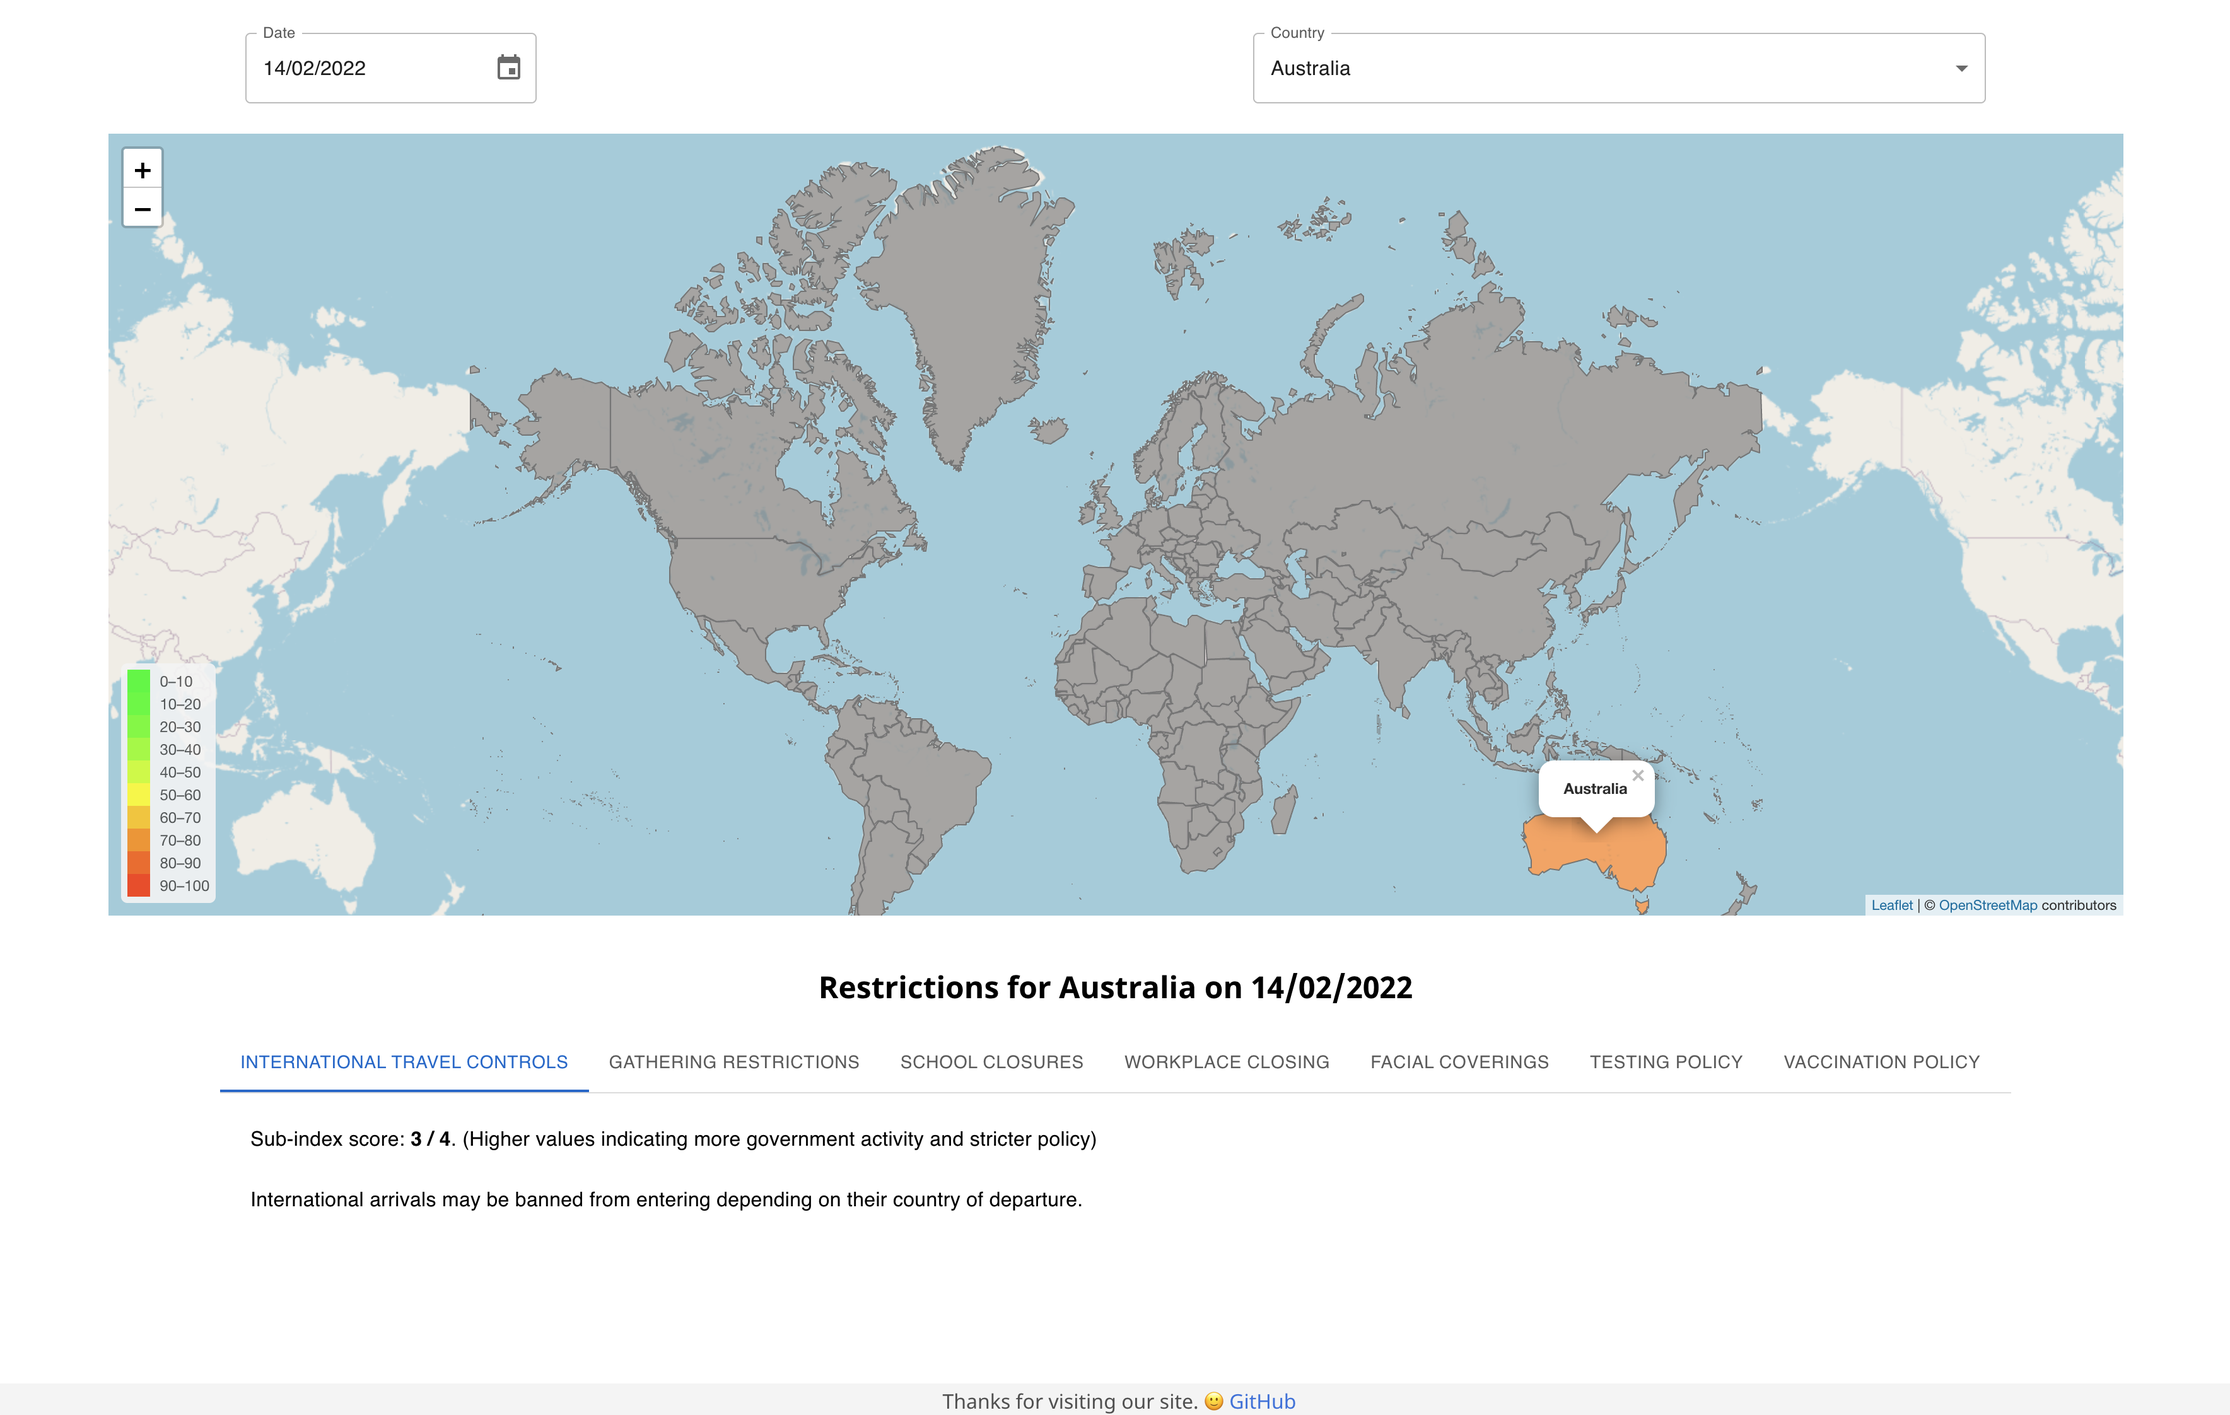
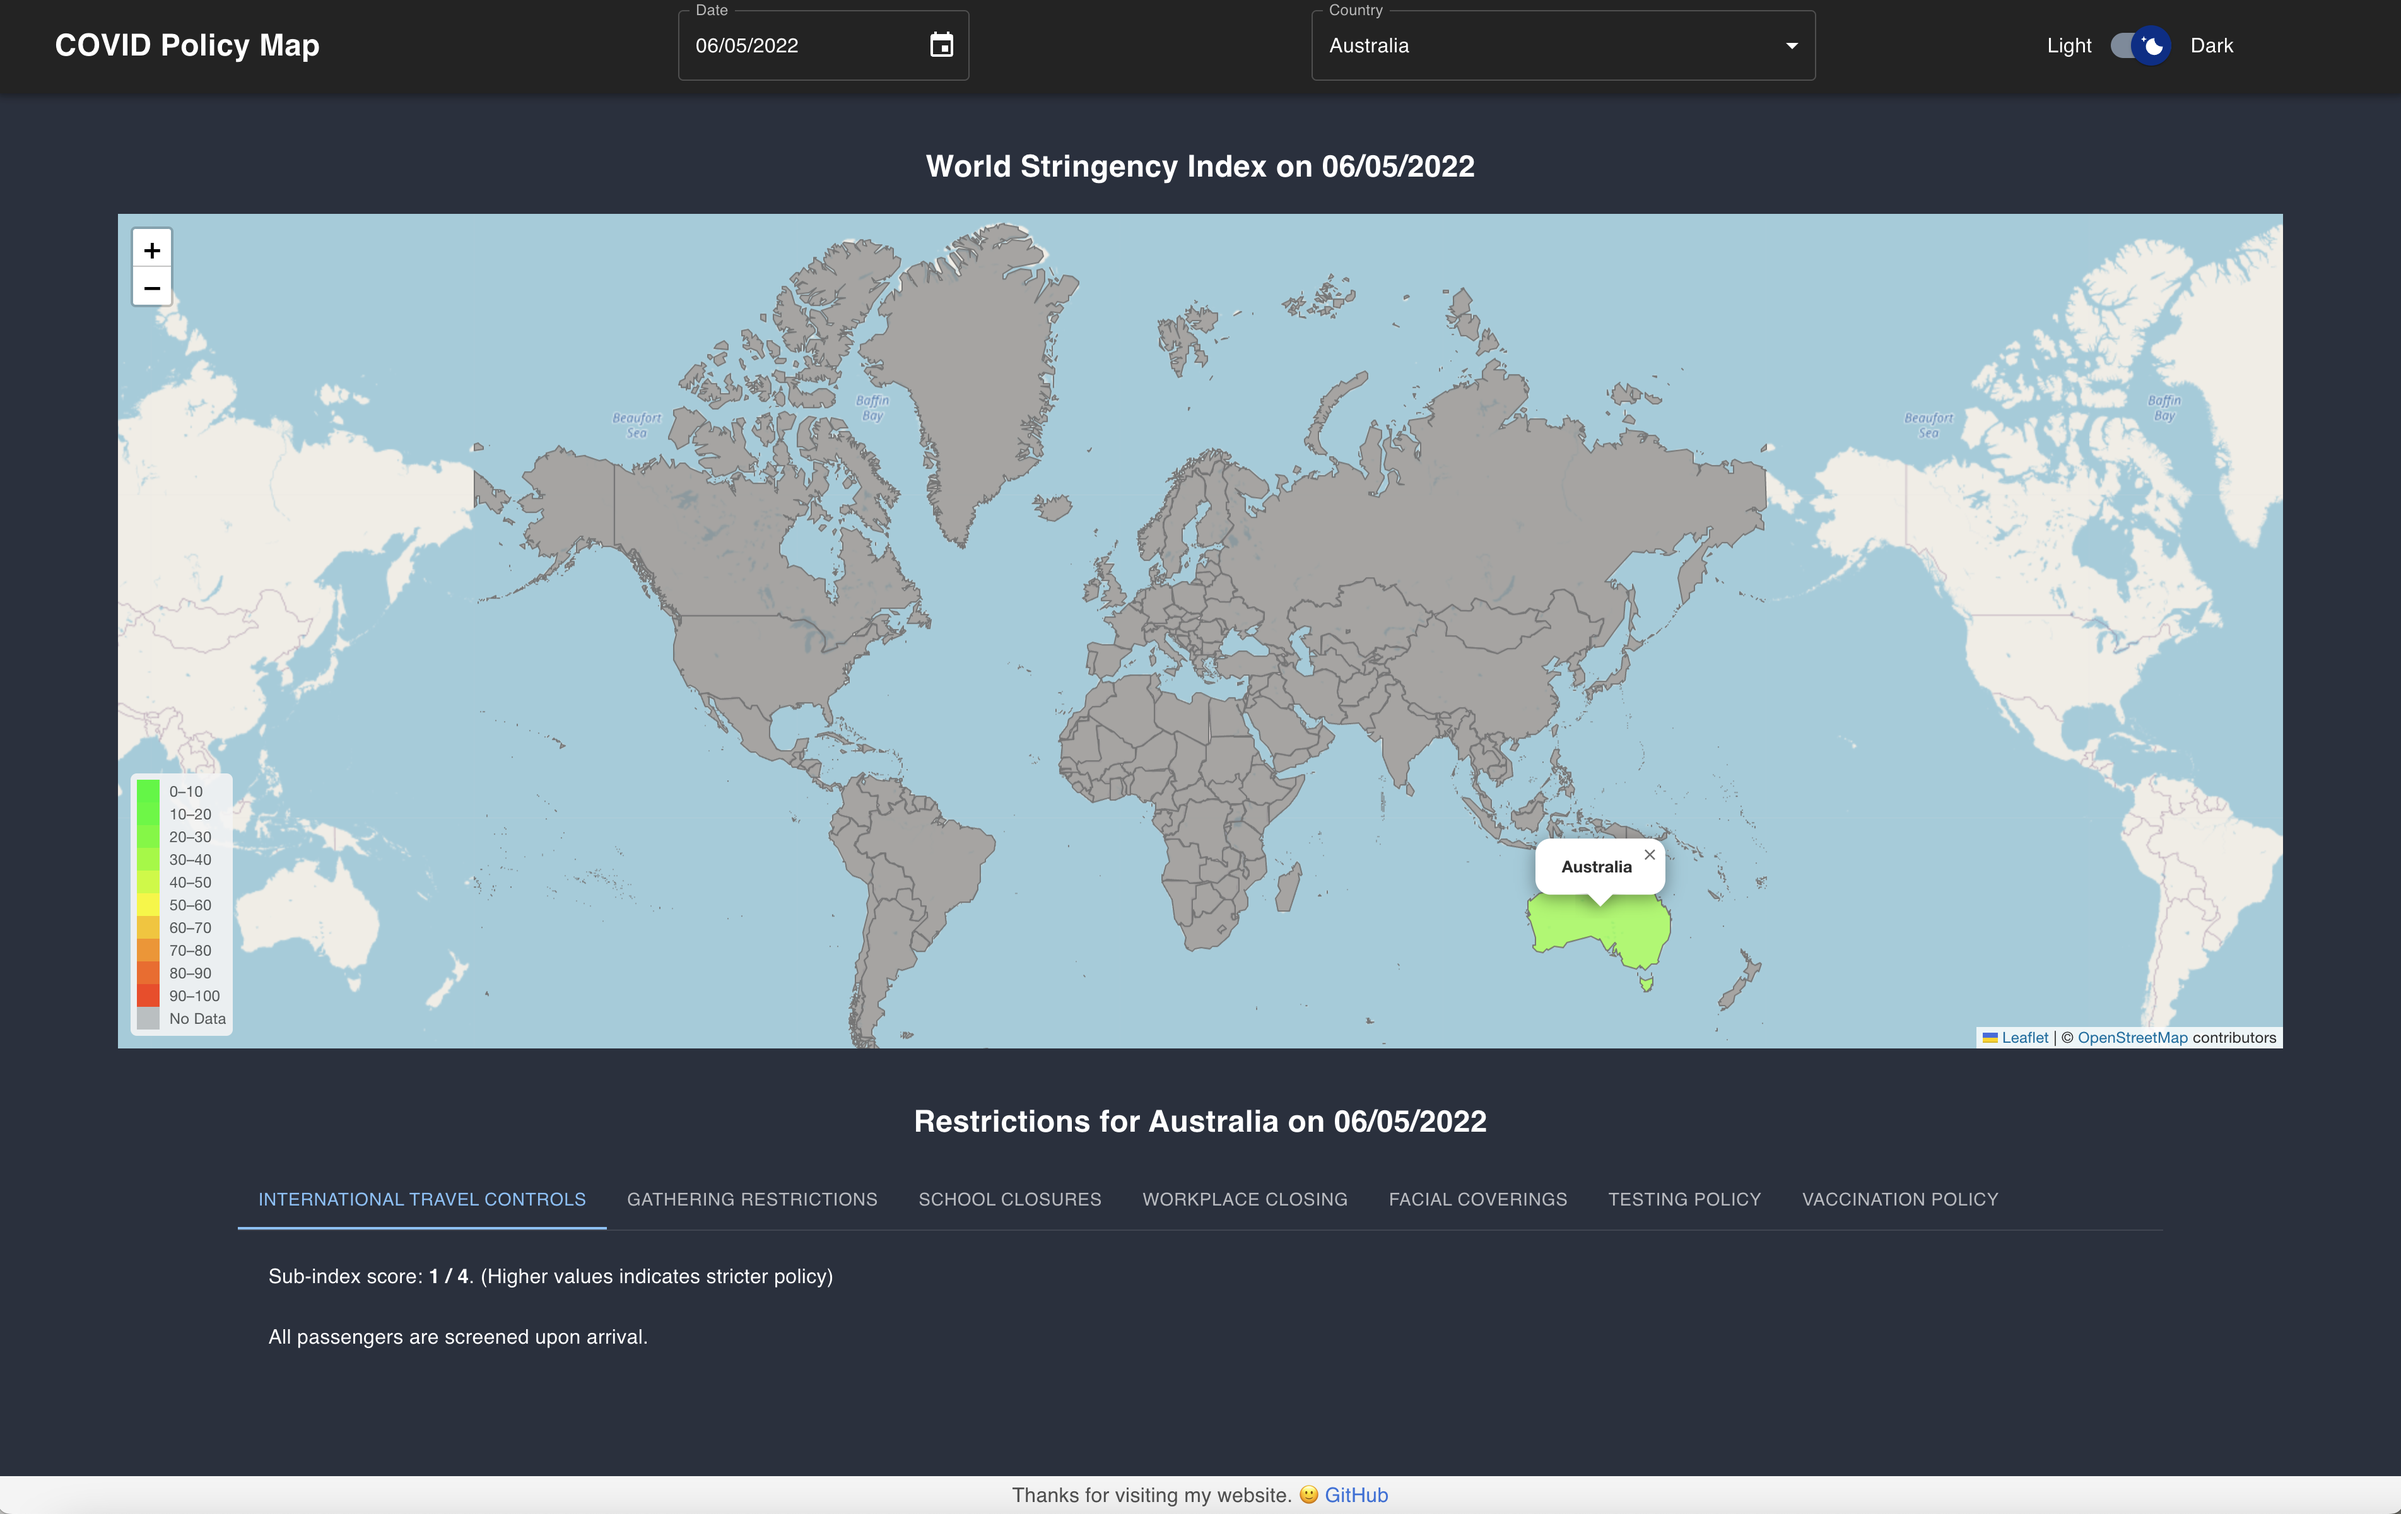
README updates

diff --git a/README.md b/README.md
@@ -20,19 +20,24 @@
 
 #### The data in the website is from the [Oxford COVID-19 Government Response Tracker (OxCGRT)](https://github.com/OxCGRT/covid-policy-tracker), Blavatnik School of Government, University of Oxford. <br><br>
 
-### **Desktop Preview**:
+#### After creating the initial website during the bootcamp, I spent some of my spare time improving the website further. I added many new features such as the date-picker to display data from a specific date, map functionality improvements with popups, and color improvements with the addition of a legend. I also made lots of UI improvements, notably the implementation of a menu bar along with dark mode and greatly improved UI for mobile devices with a drawer.
 
-![Home Page](./images/all.png)
+### Desktop Preview:
+
+<img src="./images/light.png" width="750">
+
 <br>
-![Selected Country](./images/select.png)
+
+<img src="./images/dark.png" width="750">
 
 <br>
 
-### This project was bootstrapped with [Create React App](https://github.com/facebook/create-react-app).
+<img src="./images/select.png" width="750">
 
-> ### In the project directory, you can run:
->
-> - #### `npm install`
-> - #### `npm start`
-> - #### `npm test`
-> - #### `npm run build`
+### Mobile Preview:
+
+<img src="./images/mobile.png" width="250">
+
+<br>
+
+<img src="./images/mobile-menu.png" width="250">
